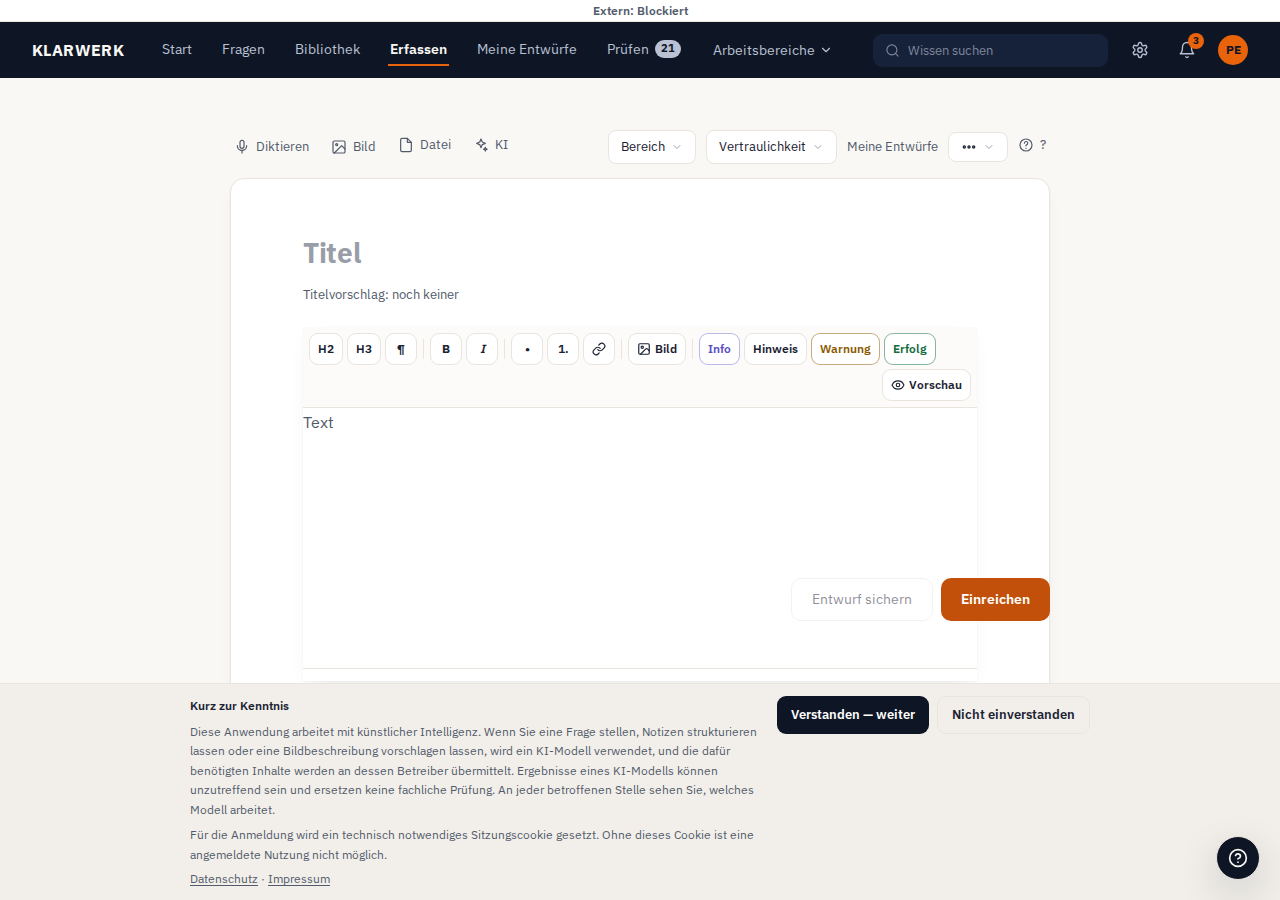
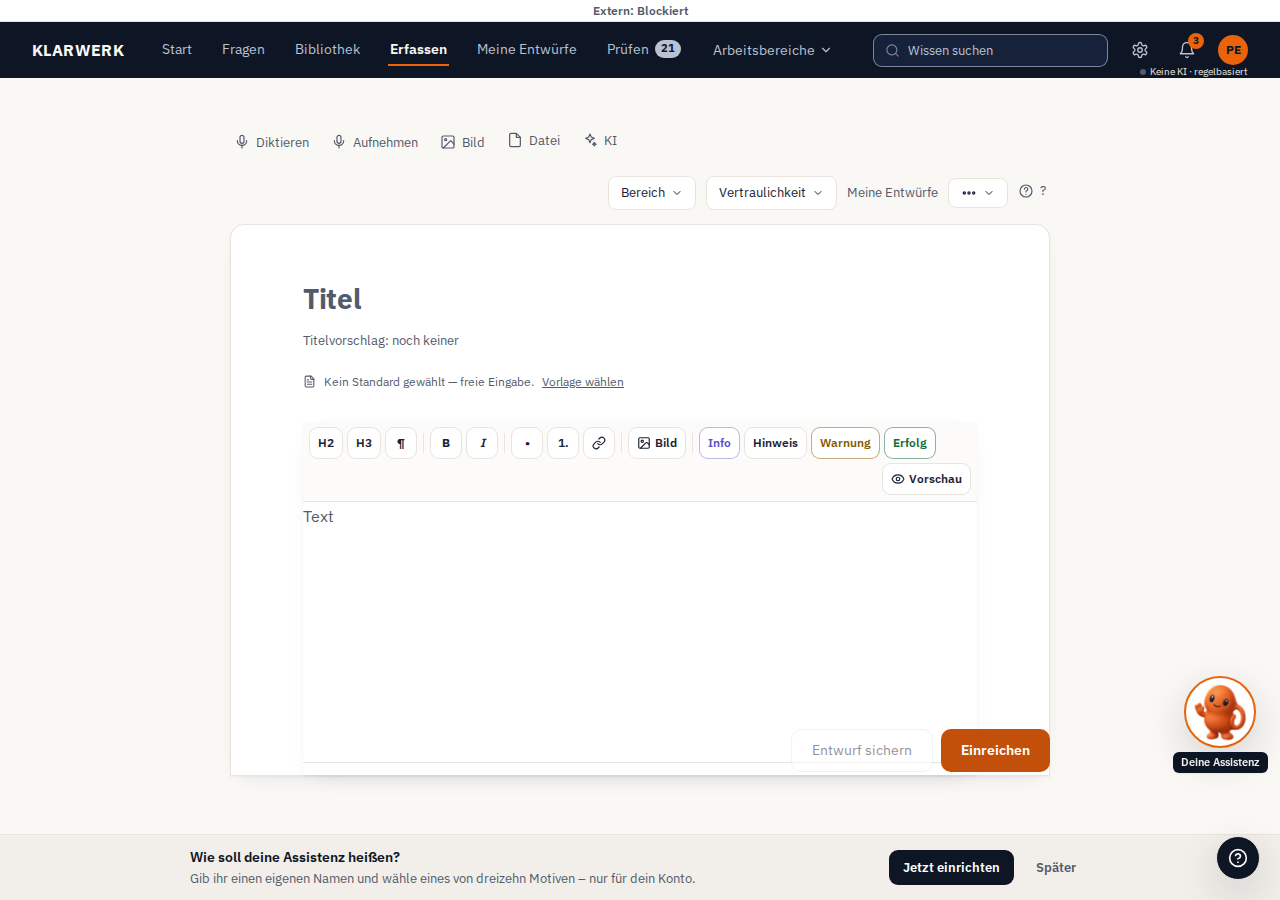
Geführten Erklär- und Vorführmodus anbieten (Arbeitssicherung)
auftrag-703b41de15245d33aab2:kandidat:73a26d5e42aec068b759ebeea0813ed798c5138a:g17:arbeitssicherung

diff --git a/tests/vorfuehrweg/ansichten-auslieferung.test.ts b/tests/vorfuehrweg/ansichten-auslieferung.test.ts
@@ -23,39 +23,43 @@ const SEITE = join(OEFFENTLICH, "demonstration", "vorfuehrweg.html");
 const ORDNER = join(OEFFENTLICH, "demonstration", "vorfuehrweg-ansichten");
 const PRAEFIX = "/demonstration/vorfuehrweg-ansichten/";
 
-/** Die gesicherten Aufnahmen (Gruppe `vorfuehrweg-ansichten`; Herkunft je Datei im Beleg). */
+/**
+ * Die gesicherten Aufnahmen (Gruppe `vorfuehrweg-ansichten`; Herkunft je Datei im Beleg). Alle 20
+ * stammen aus dem Aufnahmelauf an Kandidat 73a26d5e (integrierte Oberfläche, Nutzungshinweis
+ * bestätigt); importwege und importwege-en waren dort bytegleich mit der bisherigen Auslieferung.
+ */
 const AUFNAHMEN: Record<string, { bytes: number; sha256: string }> = {
   "bibliothek-en.png": {
-    bytes: 110789,
[1 lines of base64/hex data omitted]
+    bytes: 124583,
[1 lines of base64/hex data omitted]
   },
   "bibliothek.png": {
-    bytes: 109655,
[1 lines of base64/hex data omitted]
+    bytes: 124066,
[1 lines of base64/hex data omitted]
   },
   "demodaten-en.png": {
-    bytes: 93871,
[1 lines of base64/hex data omitted]
+    bytes: 105869,
[1 lines of base64/hex data omitted]
   },
   "demodaten.png": {
-    bytes: 94864,
[1 lines of base64/hex data omitted]
+    bytes: 104973,
[1 lines of base64/hex data omitted]
   },
   "erfassen-en.png": {
-    bytes: 69870,
[1 lines of base64/hex data omitted]
+    bytes: 73989,
[1 lines of base64/hex data omitted]
   },
   "erfassen.png": {
-    bytes: 70598,
[1 lines of base64/hex data omitted]
+    bytes: 72027,
[1 lines of base64/hex data omitted]
   },
   "fragen-en.png": {
-    bytes: 67209,
[1 lines of base64/hex data omitted]
+    bytes: 87685,
[1 lines of base64/hex data omitted]
   },
   "fragen.png": {
-    bytes: 69011,
[1 lines of base64/hex data omitted]
+    bytes: 87402,
[1 lines of base64/hex data omitted]
   },
   "importwege-en.png": {
     bytes: 81869,
@@ -66,46 +70,44 @@ const AUFNAHMEN: Record<string, { bytes: number; sha256: string }> = {
[1 lines of base64/hex data omitted]
   },
   "konflikte-en.png": {
-    bytes: 95039,
[1 lines of base64/hex data omitted]
+    bytes: 95966,
[1 lines of base64/hex data omitted]
   },
   "konflikte.png": {
-    bytes: 98397,
[1 lines of base64/hex data omitted]
+    bytes: 95400,
[1 lines of base64/hex data omitted]
   },
-  // Neu aufgenommen an Kandidat 0f9590de (Nutzungshinweis bestätigt, Karls Erfahrung bzw. der
-  // geöffnete Fassungsverlauf V1/V2/V3 vollständig im Bild); die übrigen 16 stammen aus 775fd23c.
   "lagerfall-en.png": {
-    bytes: 107606,
[1 lines of base64/hex data omitted]
+    bytes: 123350,
[1 lines of base64/hex data omitted]
   },
   "lagerfall.png": {
-    bytes: 103786,
[1 lines of base64/hex data omitted]
+    bytes: 125061,
[1 lines of base64/hex data omitted]
   },
   "schweissnaht-en.png": {
-    bytes: 94812,
[1 lines of base64/hex data omitted]
+    bytes: 120411,
[1 lines of base64/hex data omitted]
   },
   "schweissnaht.png": {
-    bytes: 99946,
[1 lines of base64/hex data omitted]
+    bytes: 126151,
[1 lines of base64/hex data omitted]
   },
   "start-en.png": {
-    bytes: 81623,
[1 lines of base64/hex data omitted]
+    bytes: 84361,
[1 lines of base64/hex data omitted]
   },
   "start.png": {
-    bytes: 82000,
[1 lines of base64/hex data omitted]
+    bytes: 81629,
[1 lines of base64/hex data omitted]
   },
   "validierung-en.png": {
-    bytes: 107906,
[1 lines of base64/hex data omitted]
+    bytes: 131366,
[1 lines of base64/hex data omitted]
   },
   "validierung.png": {
-    bytes: 107529,
[1 lines of base64/hex data omitted]
+    bytes: 133440,
[1 lines of base64/hex data omitted]
   },
 };
 

diff --git a/docs/belege/vorfuehrweg-ansichten.md b/docs/belege/vorfuehrweg-ansichten.md
@@ -9,15 +9,19 @@ die der Vorführweg (`apps/web/public/demonstration/vorfuehrweg.html`) je Statio
 **Herkunft:** aufgenommen von `tests/vorfuehrweg/ansichten-chromium.test.ts` an der gebauten Fassung,
 in echtem Chromium, mit über `POST /api/admin/demo-seed` geladenen Demodaten in der jeweiligen Sprache.
 Gesichert als Prüfartefakte (Gruppe `vorfuehrweg-ansichten`, `BILDBELEGE.json`) und unverändert unter
-ihrem Ursprungsnamen übernommen. Zwei Aufnahmeläufe:
+ihrem Ursprungsnamen übernommen.
 
-- **16 Bilder** aus Kandidat `775fd23c497eef62d535da1ee82565944860c1a9` (Prüfauftrag
-  `auftrag-703b41de15245d33aab2-775fd23c497e`). Damals verlangte die Aufnahme den Nachweistext nur im
-  Dokument; einige dieser Bilder zeigen unten noch den Nutzungshinweis.
-- **lagerfall, lagerfall-en, schweissnaht, schweissnaht-en** aus Kandidat
-  `0f9590dee87762d829fd7c0aaac6bd933aef50b7` (Prüfauftrag `auftrag-703b41de15245d33aab2-0f9590dee877`,
-  bildbeleg-012 bis -015). Der Nutzungshinweis ist regulär bestätigt; die Aufnahme verlangte, dass
-  Karls Erfahrung bzw. die Titel der Fassungen V1, V2 und V3 vollständig und unverdeckt im Bild stehen.
+Alle 20 Bilder entsprechen dem Aufnahmelauf an Kandidat `73a26d5e42aec068b759ebeea0813ed798c5138a`
+(Prüfauftrag `auftrag-703b41de15245d33aab2-73a26d5e42ae`, bildbeleg-000 bis -019), also an der Fassung
+mit integriertem Hauptstand (u. a. Bibliothek mit Inhalt vor der Kenntnisnahme, neue Einleitung unter
+„Fragen“). Der Nutzungshinweis ist regulär bestätigt; die Aufnahme verlangte, dass der jeweilige
+Nachweistext (etwa Karls Erfahrung oder die Titel der Fassungen V1, V2 und V3) vollständig und
+unverdeckt im Bild steht.
+
+- **18 Bilder** wurden nach Sichtvergleich mit der bisherigen Auslieferung (Aufnahmen aus `775fd23c`
+  und `0f9590de`, die die Oberfläche vor der Integration zeigten) durch diesen Lauf ersetzt.
+- **importwege, importwege-en** waren in diesem Lauf bytegleich mit der bisherigen Auslieferung
+  (bildbeleg-008/-009) und blieben unverändert.
 
 **Abgleich:** `tests/vorfuehrweg/ansichten-auslieferung.test.ts` verlangt je Datei genau die
 unten stehende Größe und SHA-256 und ruft jede verlinkte Datei über den echten statischen
@@ -29,23 +33,23 @@ Auslieferungsweg ab.
 
 | Datei | Bytes | SHA-256 |
 |---|---:|---|
-| bibliothek-en.png | 110789 | 1ff5fb26a6968c803ff3b9e755f045659ddb038401a89e77547cfab5ae5010dd |
-| bibliothek.png | 109655 | 548461c672107ee17e0c72ca4beeaa61fa4a0eaaf1a1580c718399a4e02dcec4 |
-| demodaten-en.png | 93871 | 4da4d11ec9da1c8f1309fecc5eab430b4316ea460691cefc59939de379b70179 |
-| demodaten.png | 94864 | 6108d2484d64179c18f7700a4faa6db7bce7e5cba539c93a727633c193fdf39b |
-| erfassen-en.png | 69870 | b35fe1ede3bb1d4f8f5b8272207d1cb3b9b3bd7f738b6a8ee81d0665dc0475b7 |
-| erfassen.png | 70598 | 6b5361fff47734ecb2f1b85ab0e46fb956deac6641173a36256a3645859297af |
-| fragen-en.png | 67209 | ca136a5ad1544ce2dbb7fb1f55b129e25ab3f3d04d9011ba855dfc23f8b5bd37 |
-| fragen.png | 69011 | 5a86305fbc37b67ee5e374b7f537b0fad94306e0fc16d083d871e6ea72737f4c |
+| bibliothek-en.png | 124583 | 9f7f69366b96a5b572e46e1711a32a9a9abaf60f43fb18bc7b5e063137cb640a |
+| bibliothek.png | 124066 | e33179711fcad9b8c0cdcf38ba69650a99e848e13972b013933afc657a0a69f6 |
+| demodaten-en.png | 105869 | be6a668cf66f2881ebbdde6776849a7fecf46908736b8b92a8fec2a2041853d8 |
+| demodaten.png | 104973 | b6b9fb662c1809ea11dbb586da0c94d7e83c8be4d43fc15a180605262663d014 |
+| erfassen-en.png | 73989 | 2875880581ff3582a140e1cdfcbbd76e32777d8ccb136d7fa4a4ba300c58ddd3 |
+| erfassen.png | 72027 | 113205389185a8582ffe31011ef13b12c86f56621a04e095f5dba27dc02e6153 |
+| fragen-en.png | 87685 | 5e093bf4288caa10bb6fae0054d348554ddc5502081f98b700d84c523b4ef8f2 |
+| fragen.png | 87402 | 3c87410efaf658aefc20da41f561b34c0d8ab34bcd085dae99fac5dcbc04a5f6 |
 | importwege-en.png | 81869 | ba296aa54349f878e5a0448952eeaa922728c5a32673937cb3bb990381a657ed |
 | importwege.png | 87908 | 5f95a7933ec2857aab5552ee09396f227570832d1e797a4e1b04b54f2a3d663f |
-| konflikte-en.png | 95039 | b9abf0f551962054c718eaa85449b66d8856d7f6fd8c3df53f7e48cc3295e6ff |
-| konflikte.png | 98397 | 35c93d4d75123be9a40820dcdf8568175c4331dce8e2b9e13eb349cbf3cefff2 |
-| lagerfall-en.png | 107606 | 6a662afbca3a26fcc0cab22af28ff13290cfa81d2b26f25fcb24dbd92b966563 |
-| lagerfall.png | 103786 | aa1baaacb2f05e420f405363a083bfd0d5889879677a1d10b05b4a59433f1955 |
-| schweissnaht-en.png | 94812 | dd12e7df577d93ca2f78c4f366c1c9fc3776c762123a603b58ce7798141e5835 |
-| schweissnaht.png | 99946 | f4a214d6e0f945256502613aab061b30b6ed3899639f6fc563815e274e9ef9fd |
-| start-en.png | 81623 | 0e9c26d36fad864d8f56700bbabe907449684cce98afc34470b5e7aa29badb46 |
-| start.png | 82000 | df8c9ccddb11ccc10ff20ec66edfba8d09c08df78c668f5a78a4c755bc2285cd |
-| validierung-en.png | 107906 | 353166a17defe2f298c4c32bcb7cdcb96217eb1f178ff1fe9b3de963551e5246 |
-| validierung.png | 107529 | 498898e5143833b0bfbf404d5a0ec82b8241052d5b01c988b6ae30116ca47b80 |
+| konflikte-en.png | 95966 | 12f4df09d3e0a9d1cde8262e6ce1262c73a7d6cf33fcc9e06e184361fae87c93 |
+| konflikte.png | 95400 | 9b51e2a74c644c8495cefbff32a775d9cabecb9ce66b7a1146ec255187c8fb92 |
+| lagerfall-en.png | 123350 | c69db633654cdc93cd2cb1a29d34b7c336d768d1e7f1459b7f9273cf9c3e335f |
+| lagerfall.png | 125061 | 1dfdb4c3b9fba557e01d04dad0ea5f2780664a3d7930283a9d976e4536e18a54 |
+| schweissnaht-en.png | 120411 | f2eee37c1ae870431f08cc3346626d04e8831c5825f00ae24490acbd7aa316e5 |
+| schweissnaht.png | 126151 | 1cea861c24f9be88a0dafc11f1b391db4871447eb8992987e5c545e436d4ddd6 |
+| start-en.png | 84361 | 5b4c751a2250b7d31d5f140f2cb3e8527bf870cfca093d6ab359f18328d7f597 |
+| start.png | 81629 | 50286e40bcd614b614287911c56bff384491baebaffa130e08cfb2750d5a9a41 |
+| validierung-en.png | 131366 | bee495dc697d9dc95418d653bf584131a20f106ac10b42a84cfbe1ae106c3ced |
+| validierung.png | 133440 | c741028d55d5860bdfd368af3e20b8fe50baa479e08afccb32daa457e000a5b3 |
